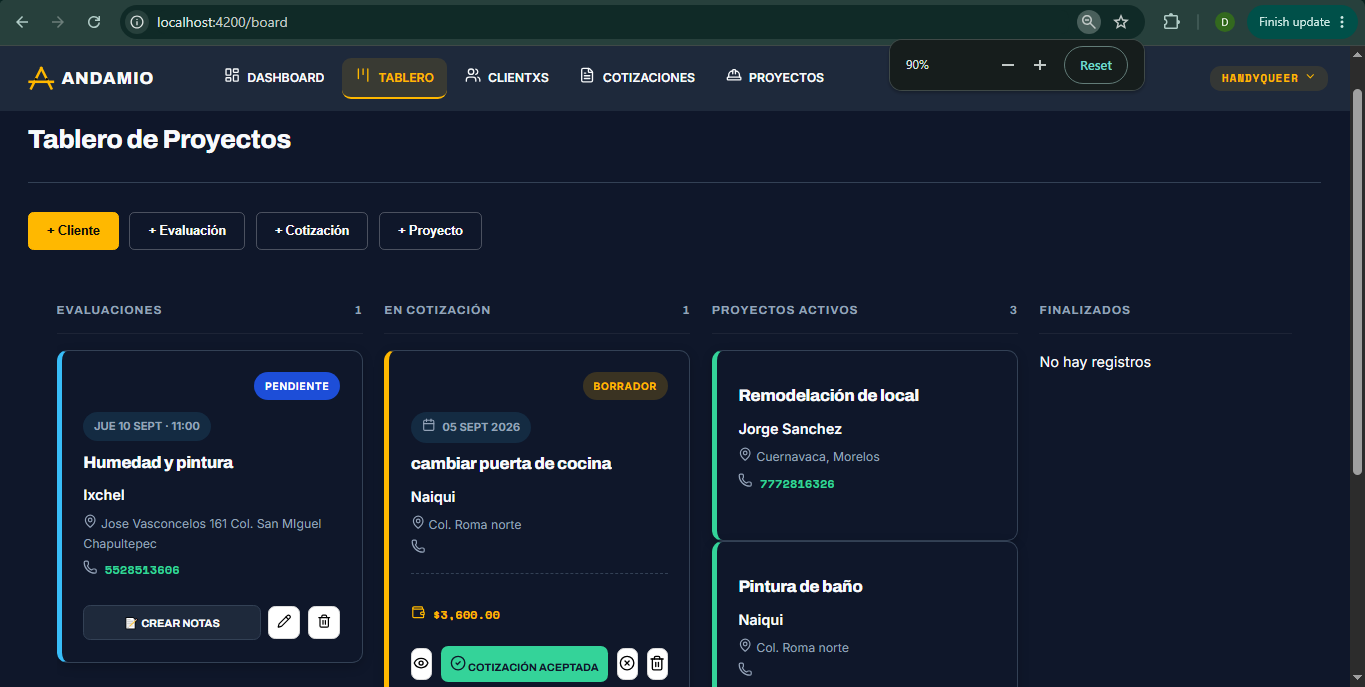
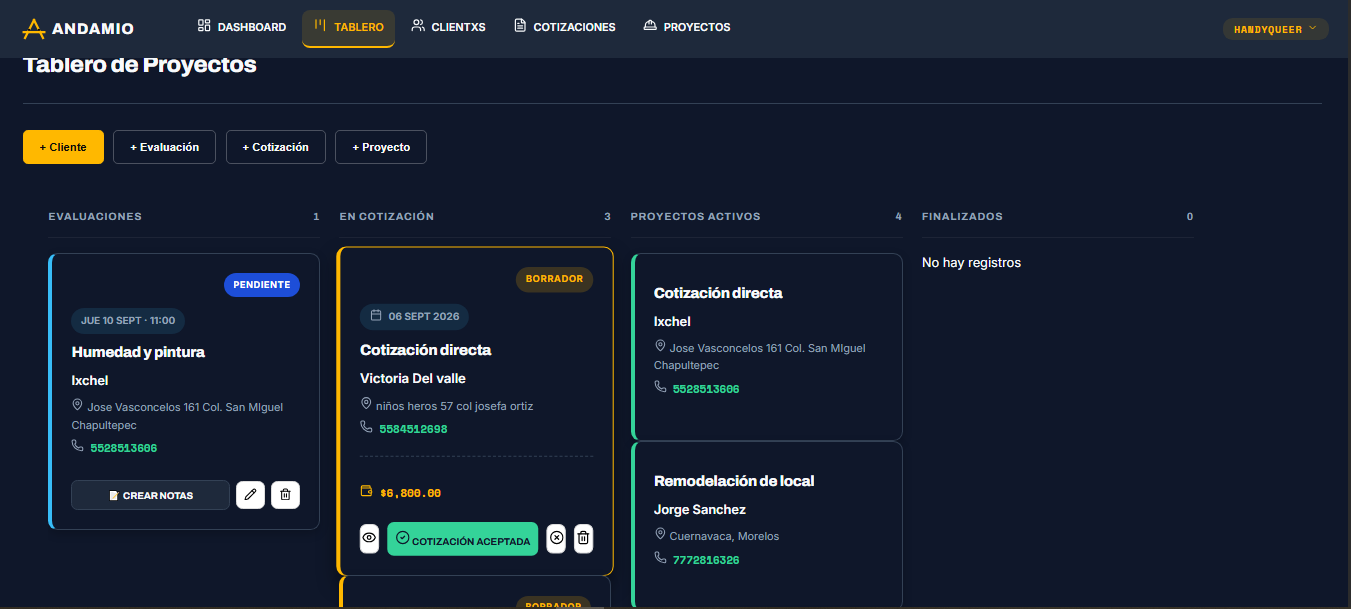
feat: rediseno de contact (typewriter, chips, boton reclutador), diagrama responsive vertical, stack actualizado con Astro/Tailwind

diff --git a/src/styles/global.css b/src/styles/global.css
@@ -115,3 +115,28 @@ button:focus-visible {
     drop-shadow(-3px 0 var(--color-accent-light))
     drop-shadow(0 2px var(--color-accent-soft));
 }
+
+.typewriter {
+  overflow: hidden;
+  white-space: nowrap;
+  border-right: 2px solid var(--color-accent);
+  width: 0;
+  animation:
+    typing 2s steps(33, end) forwards,
+    blink-caret 0.75s step-end infinite;
+}
+@keyframes typing {
+  from { width: 0; }
+  to { width: 33ch; }
+}
+@keyframes blink-caret {
+  50% { border-color: transparent; }
+}
+
+@media (prefers-reduced-motion: reduce) {
+  .typewriter {
+    animation: none;
+    width: 100%;
+    border-right: none;
+  }
+}

diff --git a/src/content/projects/informa-padel.md b/src/content/projects/informa-padel.md
@@ -6,4 +6,3 @@ kind: "project"
 featured: false
 ---
 
-[Cuéntame brevemente: de qué trata la revista, por qué Squarespace fue la elección correcta para lo que la clienta necesitaba, y qué te tocó resolver]
